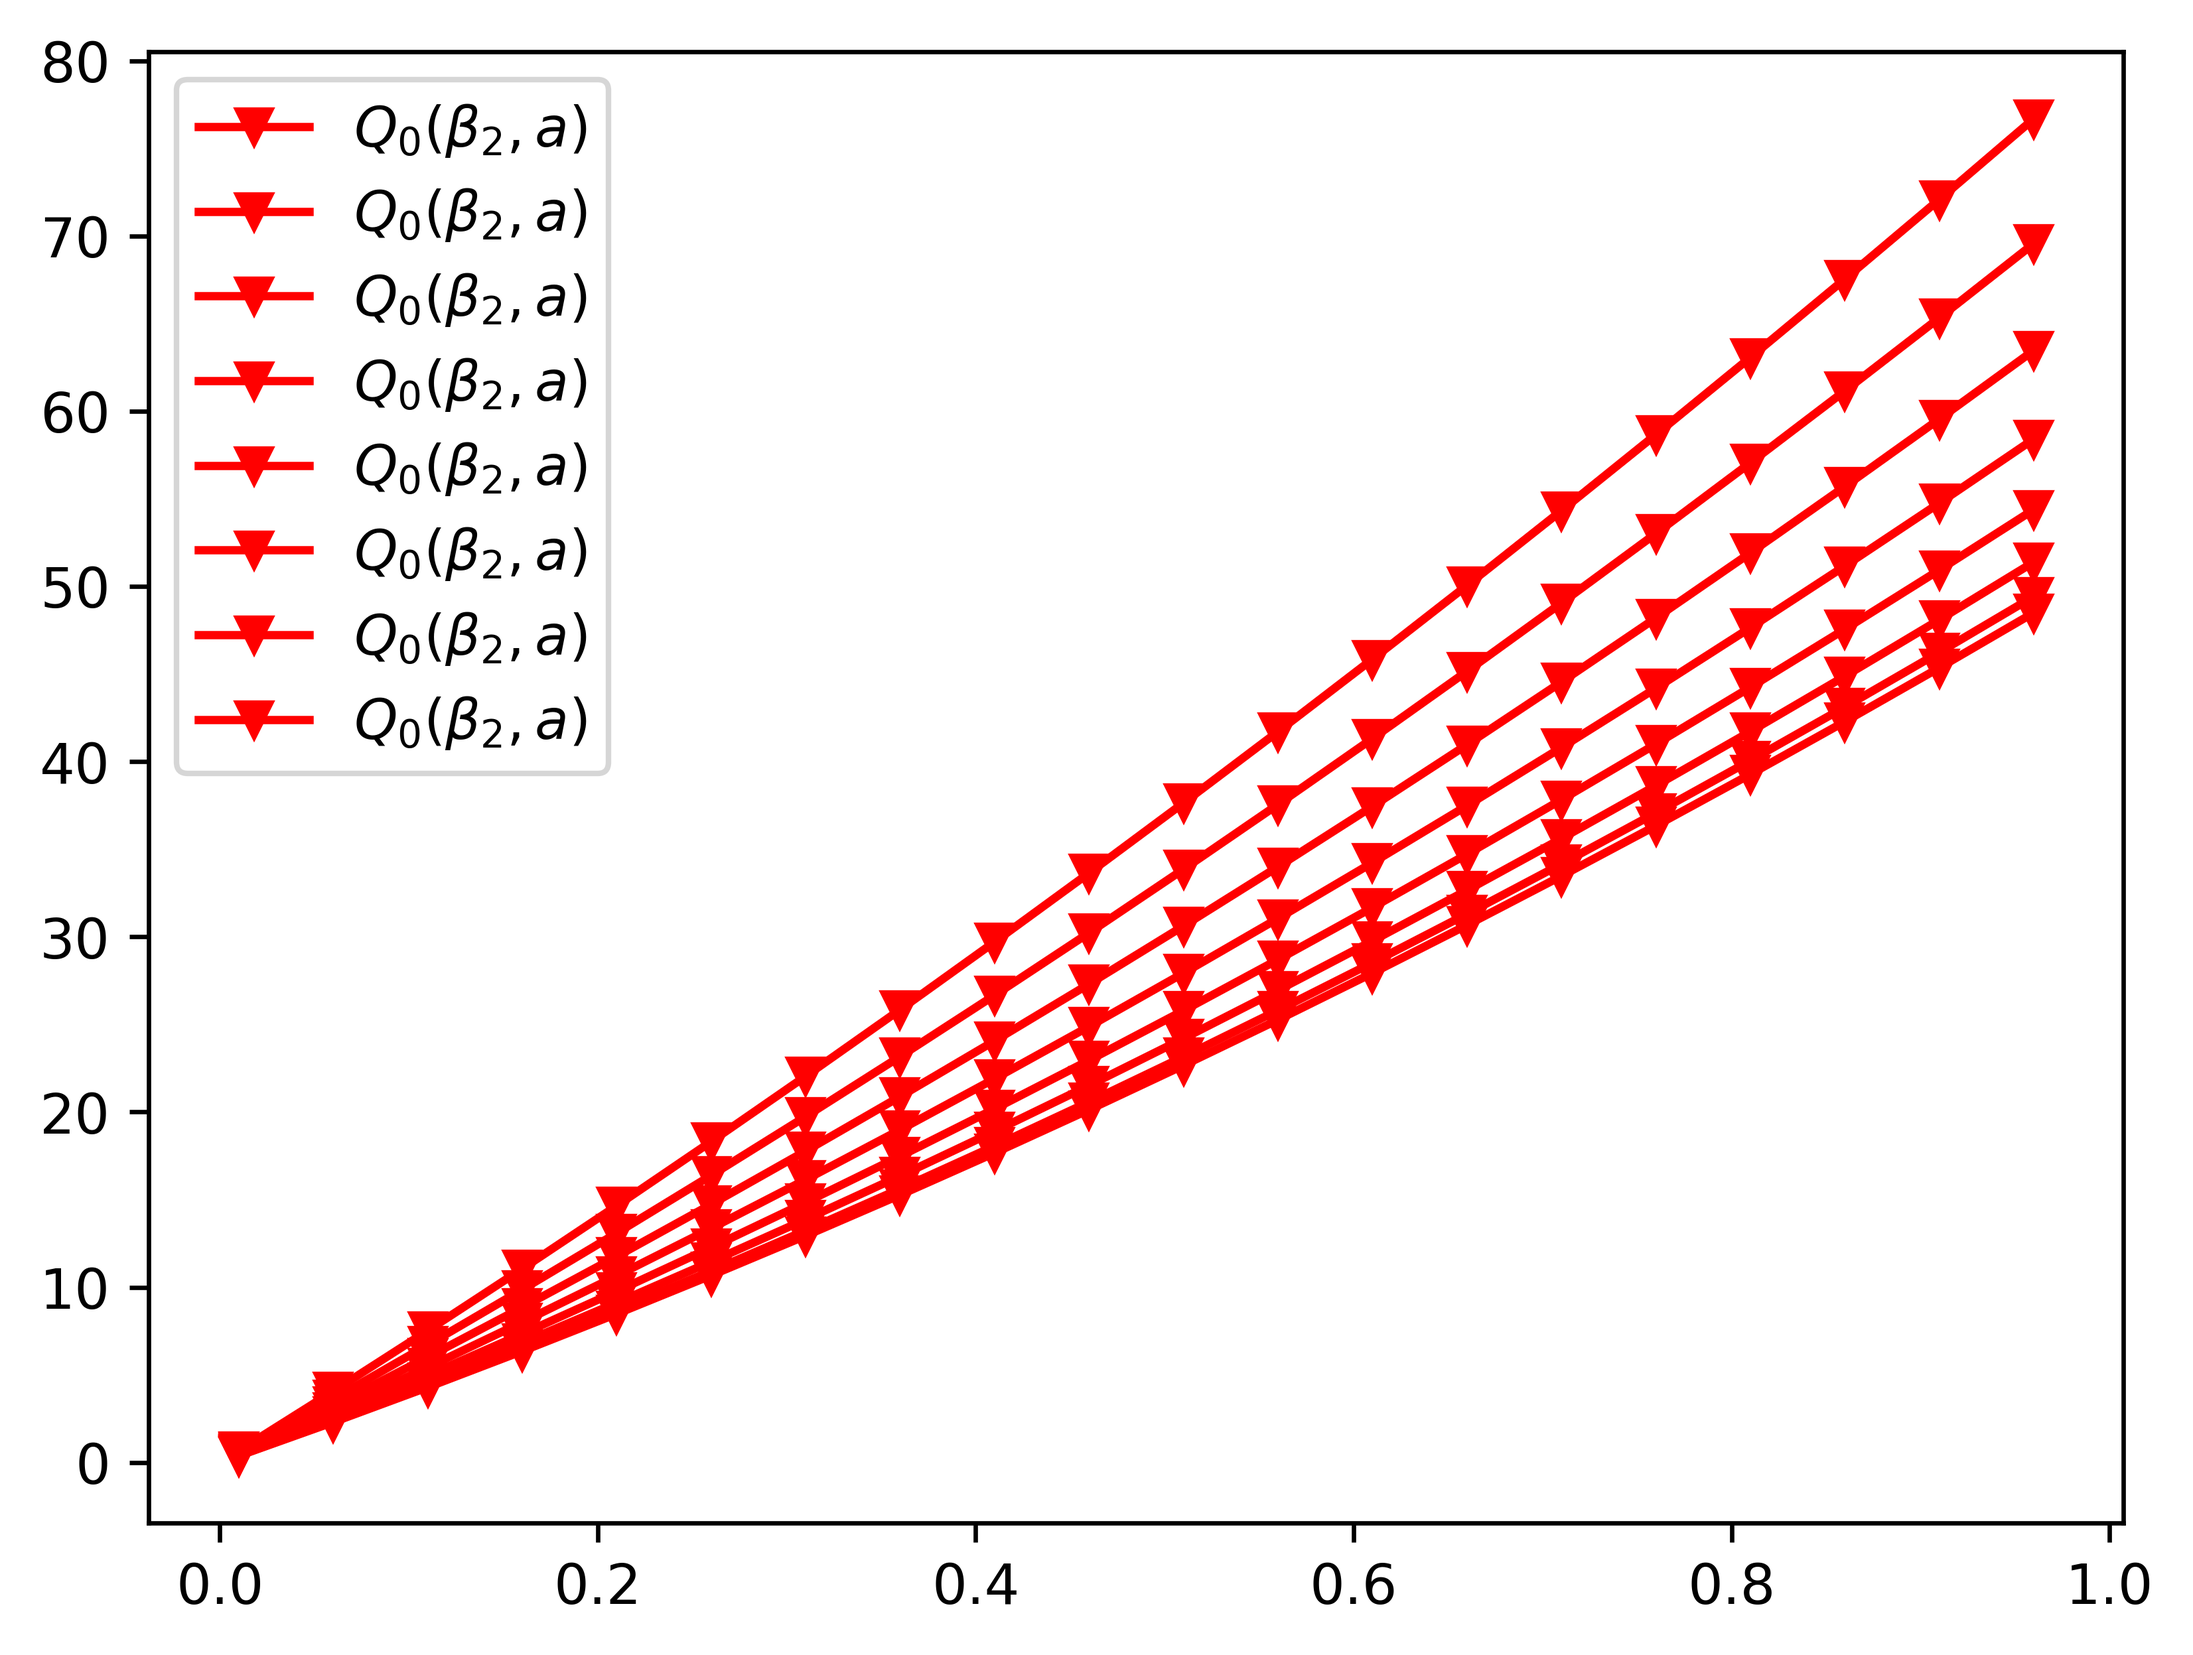
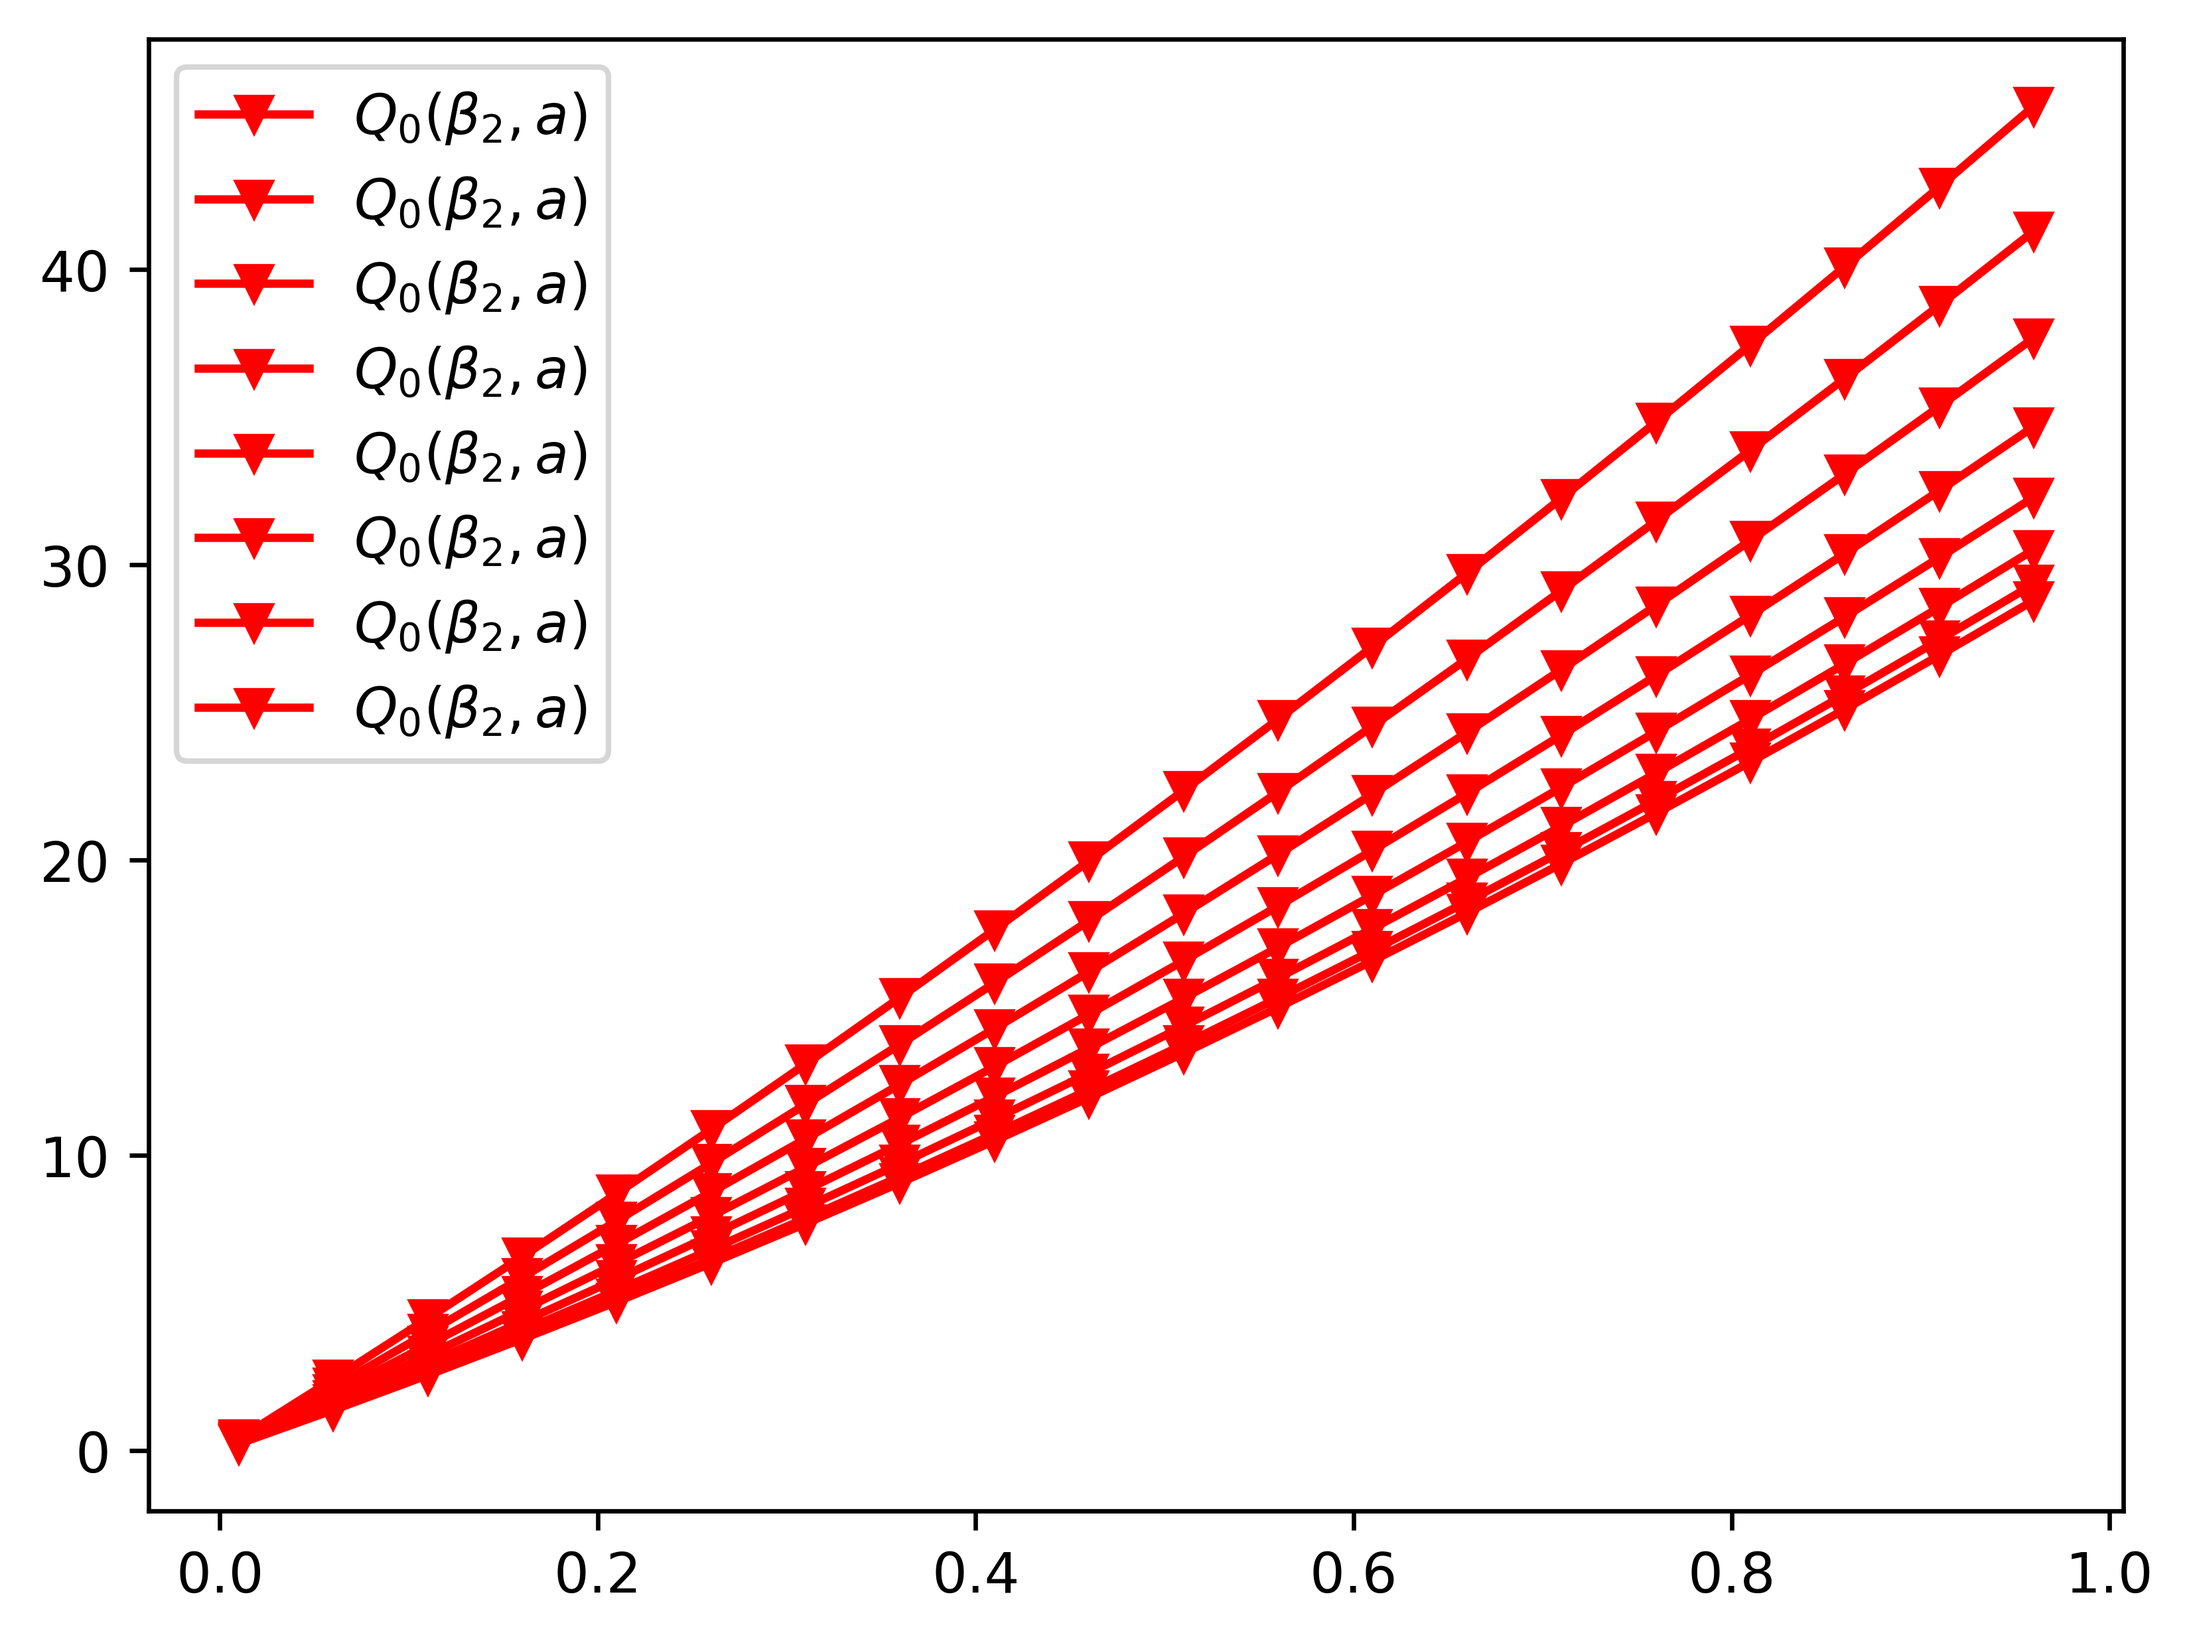
adds Yoshida Quadrupole Moments and plots

diff --git a/Code-Collection/Quadrupole-Moments/python/nuclear.py b/Code-Collection/Quadrupole-Moments/python/nuclear.py
@@ -12,15 +12,20 @@ import charge_distribution as ch
 A = 163
 Z = 72
 beta = 0.38
-a = 0.54
+gamma = 21.0 * np.pi / 180.0
+a = 2.20
 j = 6.5
-I3_proton = 0.5
-I3_neutron = -0.5
-I = 25.0 / 2.0
+
+# the isospin projection t_z of the two nucleons
+I3_proton = -0.5
+I3_neutron = +0.5
+
+# total angular momentum of the rotational state
+I = 1.0 / 2.0
 
 rms = ch.Charge_Distribution.RMS_Deformed(A, beta)
 
-nucleus = Q.Quadrupole(rms, A, Z, I, beta, a, I3_proton)
+nucleus = Q.Quadrupole(rms, A, Z, I, beta, gamma, a, I3_proton)
 
 nucleus.Show_Data()
 
@@ -65,4 +70,29 @@ for ro in rhos:
     plt.plot(r, ro, '-k', label=r'$\rho_{ch}(r)$')
 plt.legend(loc='best')
 plt.savefig('FermiQ_dist.png', dpi=600, bbox_inches='tight')
+plt.close()
+
+
+# generate the two components Q2 and Q0 of the quadrupole operator, using the expressions from Yoshida's calculations [Yoshida 1972]
+# vary the rms - the second radial moment
+def_rms = np.arange(0, 1.55, 0.11)
+q0_yoshida = [Q.Quadrupole.Q0_Y(Z, rms, beta, gamma) for rms in def_rms]
+q2_yoshida = [Q.Quadrupole.Q2_Y(Z, rms, beta, gamma) for rms in def_rms]
+
+# plot the two components Q2 and Q0 of the quadrupole operator, using the expressions from Yoshida's calculations [Yoshida 1972]
+# preamble set
+plt.rcParams.update({'font.size': 15})
+
+fig, ax = plt.subplots()
+
+ax.set_xlabel(r'$\langle r^2 \rangle$')
+ax.set_ylabel(r'$Q_Y$')
+
+
+plt.plot(def_rms, q0_yoshida, '^-r', label=r'$Q_0$')
+plt.plot(def_rms, q2_yoshida, 'v-k', label=r'$Q_2$')
+plt.text(0.2, 0.6, r'$\beta=$' + f'{beta}\n' + r'$\gamma=$' + f'{int(gamma*180/np.pi)}' + r'$^o$', horizontalalignment='center',
+         verticalalignment='center', transform=ax.transAxes)
+ax.legend(loc='best')
+plt.savefig('yoshida_moments.png', dpi=600, bbox_inches='tight')
 plt.close()

diff --git a/Code-Collection/Quadrupole-Moments/python/quadrupole.py b/Code-Collection/Quadrupole-Moments/python/quadrupole.py
@@ -5,11 +5,12 @@ import matplotlib.pyplot as plt
 
 
 class Quadrupole:
-    def __init__(self, rms, A, Z, I, beta, diffuseness, isospin):
+    def __init__(self, rms, A, Z, I, beta, gamma, diffuseness, isospin):
         self.a = diffuseness
         self.A = A
         self.Z = Z
         self.beta = beta
+        self.gamma = gamma
         self.I = I
         self.rms = rms
         self.I3 = isospin
@@ -102,6 +103,30 @@ class Quadrupole:
         # evaluates the spectroscopic quadrupole moment
         q_s = C * Q_O
         return q_s
+
+    # define the quadrupole moment (µ=0,µ=2 components) according to Yoshida's calculations [Yoshida 1972]
+
+    @staticmethod
+    def Q0_Y(Z, rms, beta, gamma):
+        c = np.sqrt(5.0 / np.pi) * Z
+
+        f_beta = beta * (np.cos(gamma) + 4.0 / 7.0 *
+                         np.sqrt(5.0 / (4.0 * np.pi)) * beta * np.cos(2.0 * gamma))
+
+        Q0 = c * rms * f_beta
+
+        return Q0
+
+    @staticmethod
+    def Q2_Y(Z, rms, beta, gamma):
+        c = np.sqrt(5.0 / np.pi) * Z * (1.0 / np.sqrt(2.0))
+
+        g_beta = beta * np.sin(gamma) * (1 - 8.0 / 7.0 *
+                                         np.sqrt(5.0 / (4.0 * np.pi)) * np.cos(gamma))
+
+        Q2 = c * rms * g_beta
+
+        return Q2
 
 
 # QUADRUPOLE_CONST = 'quadrupole_j.png'
